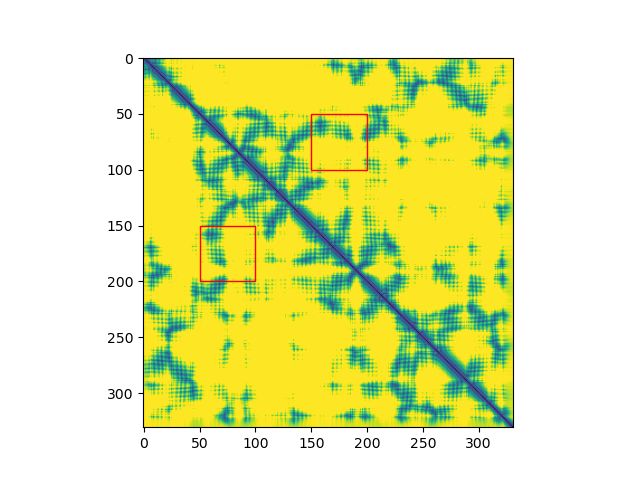
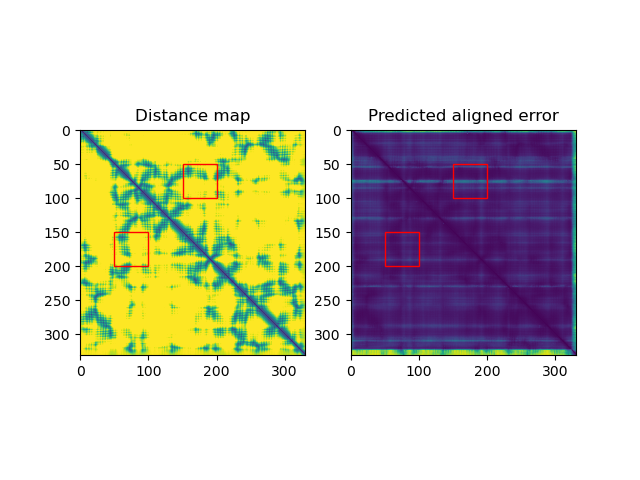
add pae plot

diff --git a/dgram2dmap.py b/dgram2dmap.py
@@ -4,10 +4,12 @@ import string
 import logging
 import argparse
 from sys import argv, exit
+from copy import copy
 import numpy as np
 from scipy.special import softmax
 import matplotlib.pyplot as plt
 import matplotlib.patches as patches
+from matplotlib.lines import Line2D
 from Bio.PDB import *
 
 
@@ -22,18 +24,21 @@ def add_arguments(parser):
         default=20.0,
         type=float,
         required=False,
+        metavar="20.0",
     )
     parser.add_argument(
         "--limits",
         help="Select a 'patch' of constraints between two subsets of residues (e.g. 0:100 200:300)",
         nargs=2,
         required=False,
+        metavar=("i:j", "k:l"),
     )
     parser.add_argument(
         "--chains",
         help="Extract constraints between two chains (e.g. A B)",
         nargs=2,
         required=False,
+        metavar=("chain1", "chain2"),
     )
     parser.add_argument(
         "--plot",
@@ -69,14 +74,16 @@ def load_results(filepath):
     with open(filepath, "rb") as p:
         results = pickle.load(p)
         distance_predictions = get_distance_predictions(results)
-    return distance_predictions
+        if "predicted_aligned_error" in results:
+            pae = results["predicted_aligned_error"]
+        else:
+            pae = None
+    return distance_predictions, pae
 
 
 def get_rosetta_constraints(
     dist_matrix, func_type="HARMONIC", atom_name="CA", maxD=20.0, SD=1.0, chain1="A", chain2="A", limitA=None, limitB=None
 ):
-    # AtomPair CZ 20 CA 6 GAUSSIANFUNC 5.54 2.0 TAG
-    # AtomPair CZ 20 CA 54 GAUSSIANFUNC 5.27 2.0 TAG
     constraints = []
     if limitA is not None and limitB is not None:
         x0 = limitA[0]
@@ -140,10 +147,17 @@ def get_chain_limits(features):
     return chain_limits
 
 
-def plot_distances(filepath, distances, limitA=None, limitB=None):
+def plot_distances(filepath, distances, pae=None, limitA=None, limitB=None):
 
-    fig, ax = plt.subplots()
-    ax.imshow(distances)
+    if pae is not None:
+        fig, ax = plt.subplots(1, 2)
+        ax[0].imshow(distances)
+        ax[1].imshow(pae)
+        ax[0].title.set_text("Distance map")
+        ax[1].title.set_text("Predicted aligned error")
+    else:
+        fig, ax = plt.subplots()
+        ax.title.set_text("Distance map")
 
     if limitA and limitB:
         # plots a bounding box if any
@@ -164,8 +178,16 @@ def plot_distances(filepath, distances, limitA=None, limitB=None):
             facecolor="none",
         )
 
-        ax.add_patch(rect1)
-        ax.add_patch(rect2)
+        if pae is not None:
+            rect3 = copy(rect1)
+            rect4 = copy(rect2)
+            ax[0].add_patch(rect1)
+            ax[0].add_patch(rect2)
+            ax[1].add_patch(rect3)
+            ax[1].add_patch(rect4)
+        else:
+            ax.add_patch(rect1)
+            ax.add_patch(rect2)
     plt.savefig(filepath)
     plt.close()
 
@@ -196,11 +218,11 @@ def main():
 
     for i, pickle_output in enumerate(pickle_list):
         logging.warning(f"Processing pickle file {i}/{len(pickle_list)}: {pickle_output}")
-        dist = load_results(pickle_output)
+        dist, pae = load_results(pickle_output)
         np.savetxt(f"{pickle_output}.dmap", dist)
 
         if args.plot:
-            plot_distances(f"{pickle_output}.dmap.png", dist, limitA, limitB)
+            plot_distances(f"{pickle_output}.dmap.png", dist, pae, limitA, limitB)
 
         if args.rosetta:
             rosetta_constraints = get_rosetta_constraints(
